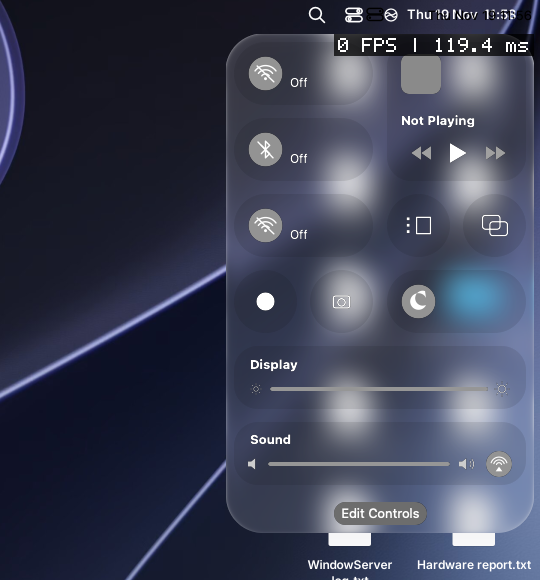
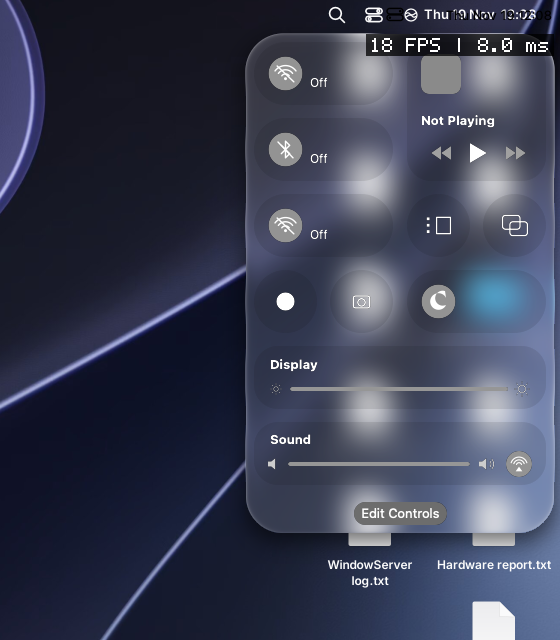
controlcenter-cocoa: screenshot and notes of the glass with rim and shadow

Changed region(s): [[0.0, 0.0, 1.0, 1.0], [0.0, 0.0, 0.0889, 0.3414], [0.9778, 0.2483, 1.0, 0.2793]]

diff --git a/controlcenter-cocoa/pearos/README.md b/controlcenter-cocoa/pearos/README.md
@@ -79,3 +79,5 @@ Ours so far: translucent fills (`CCGlassMode`, `CC_GLASS=0` for the opaque greys
 3. Compositor (`blur.c`, mode 9): regular glass as the fits of Solarium describe it: the backdrop blurred wide (sigma ~14), pulled from inside at the rim by the inner refraction (amount -60 over 20 px, quarter circle), light / dark tone by `WSD_APPEARANCE`, a faint rim; neighbouring shapes melt (the smooth minimum, k 14). Software path only so far (the GL compositor has no mode 9).
 Not done: the filter keys are not read from the stream (the constants of a regular glass are used; `clear` would need `BlurRadius` 0), `CASDFKeyFillHighlightEffect` (the lit rim) and the vibrancy filters are ignored, the GL compositor (`compositor_gl.c`, needs `virtio-vga-gl` in QEMU) and the exact shaders of Solarium docs/ALGORITHM-*.md, the tone is not compared with a capture of the real panel.
 Tools: `CA_DUMP=dir` (WindowServer) writes every command stream, `CA_DEBUG=1` dumps the bytes of a record it cannot decode, `EXTDBG`-style host harness = compile `ca_scene.c` with a 10-line main (see the git log of WindowServer).
+
+Update (same day): the lit rim (`CASDFKeyFillHighlightEffect`: key light angle 0, fill light angle pi, amount 0.5, spread pi / 2) and the shadow of the glass (`ShadowOpacity` 0.6, `ShadowRadius` 24, `ShadowOffset` (0, 8): an erfc edge of the shape moved down) are in `blur.c` (modes 9 and 10, mode 10 = shapes smaller than 160 px: a lighter tone). The ids of the filter keys in the stream are the atoms of `CAInternAtom` (Solarium docs/APPLE-DECISIONS.md, `tools/filter-atoms.m`): reading them (the Filter object 0x12 holds KeyValue objects: atom + value) is not done, the constants of a regular glass are used.
